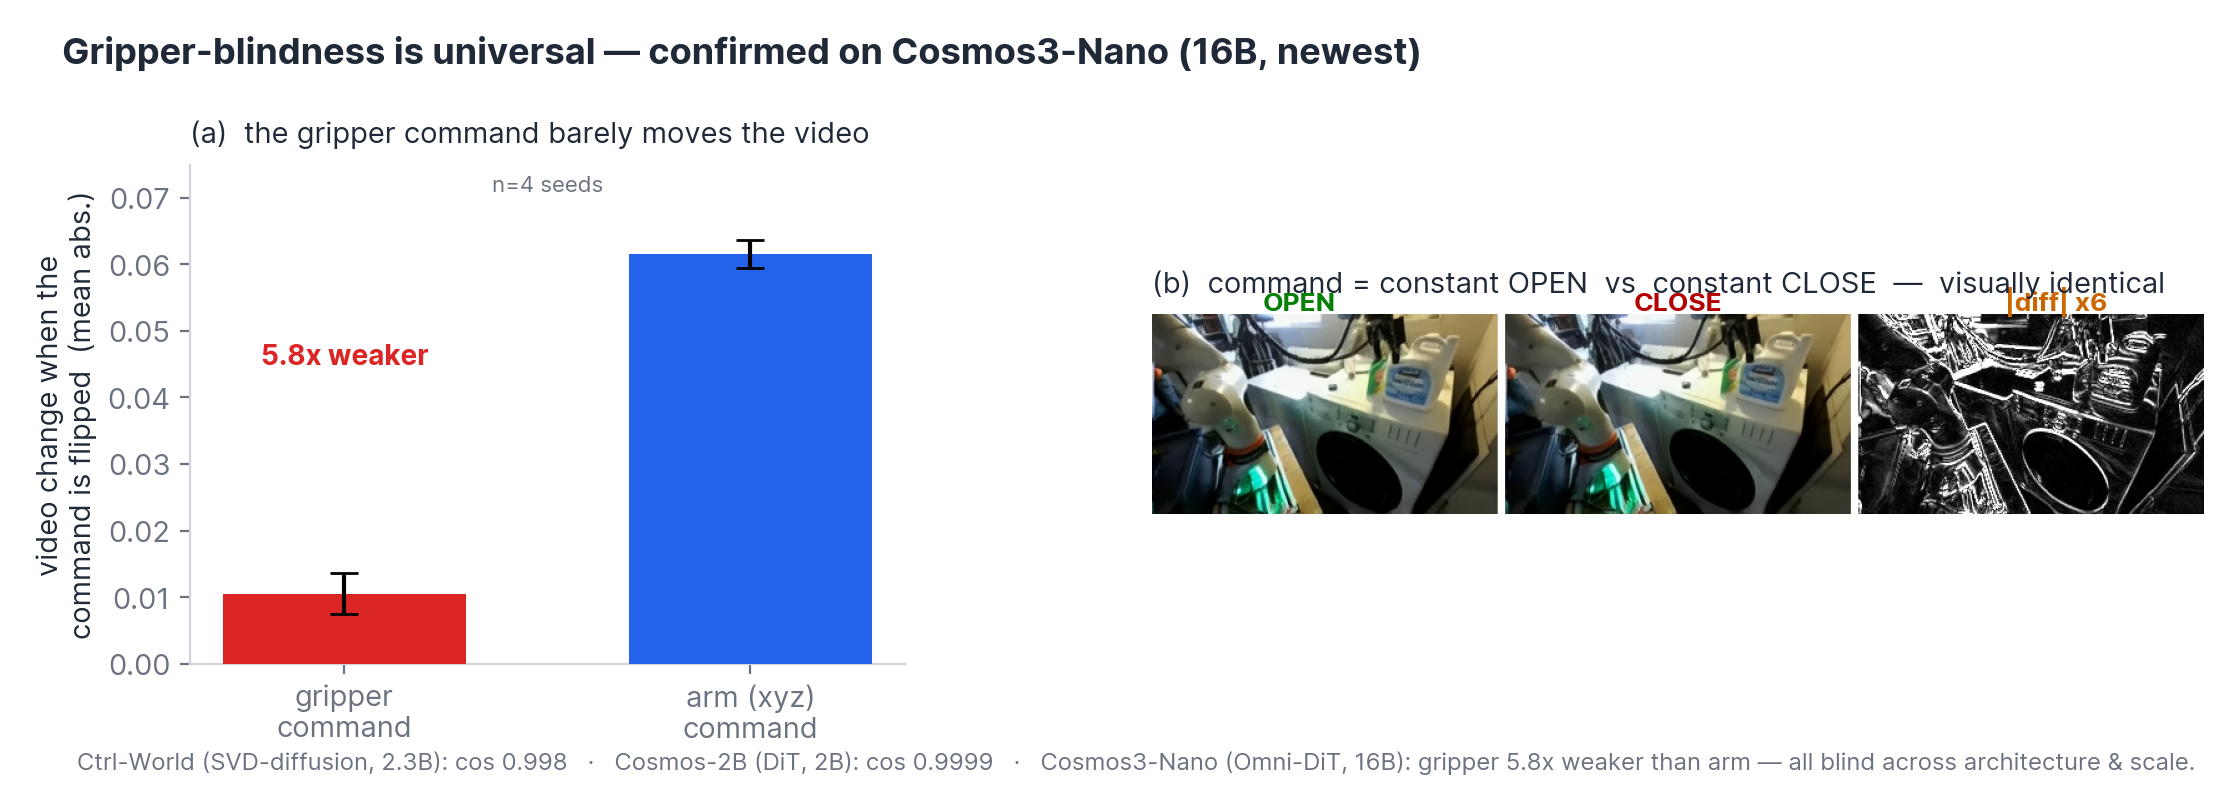
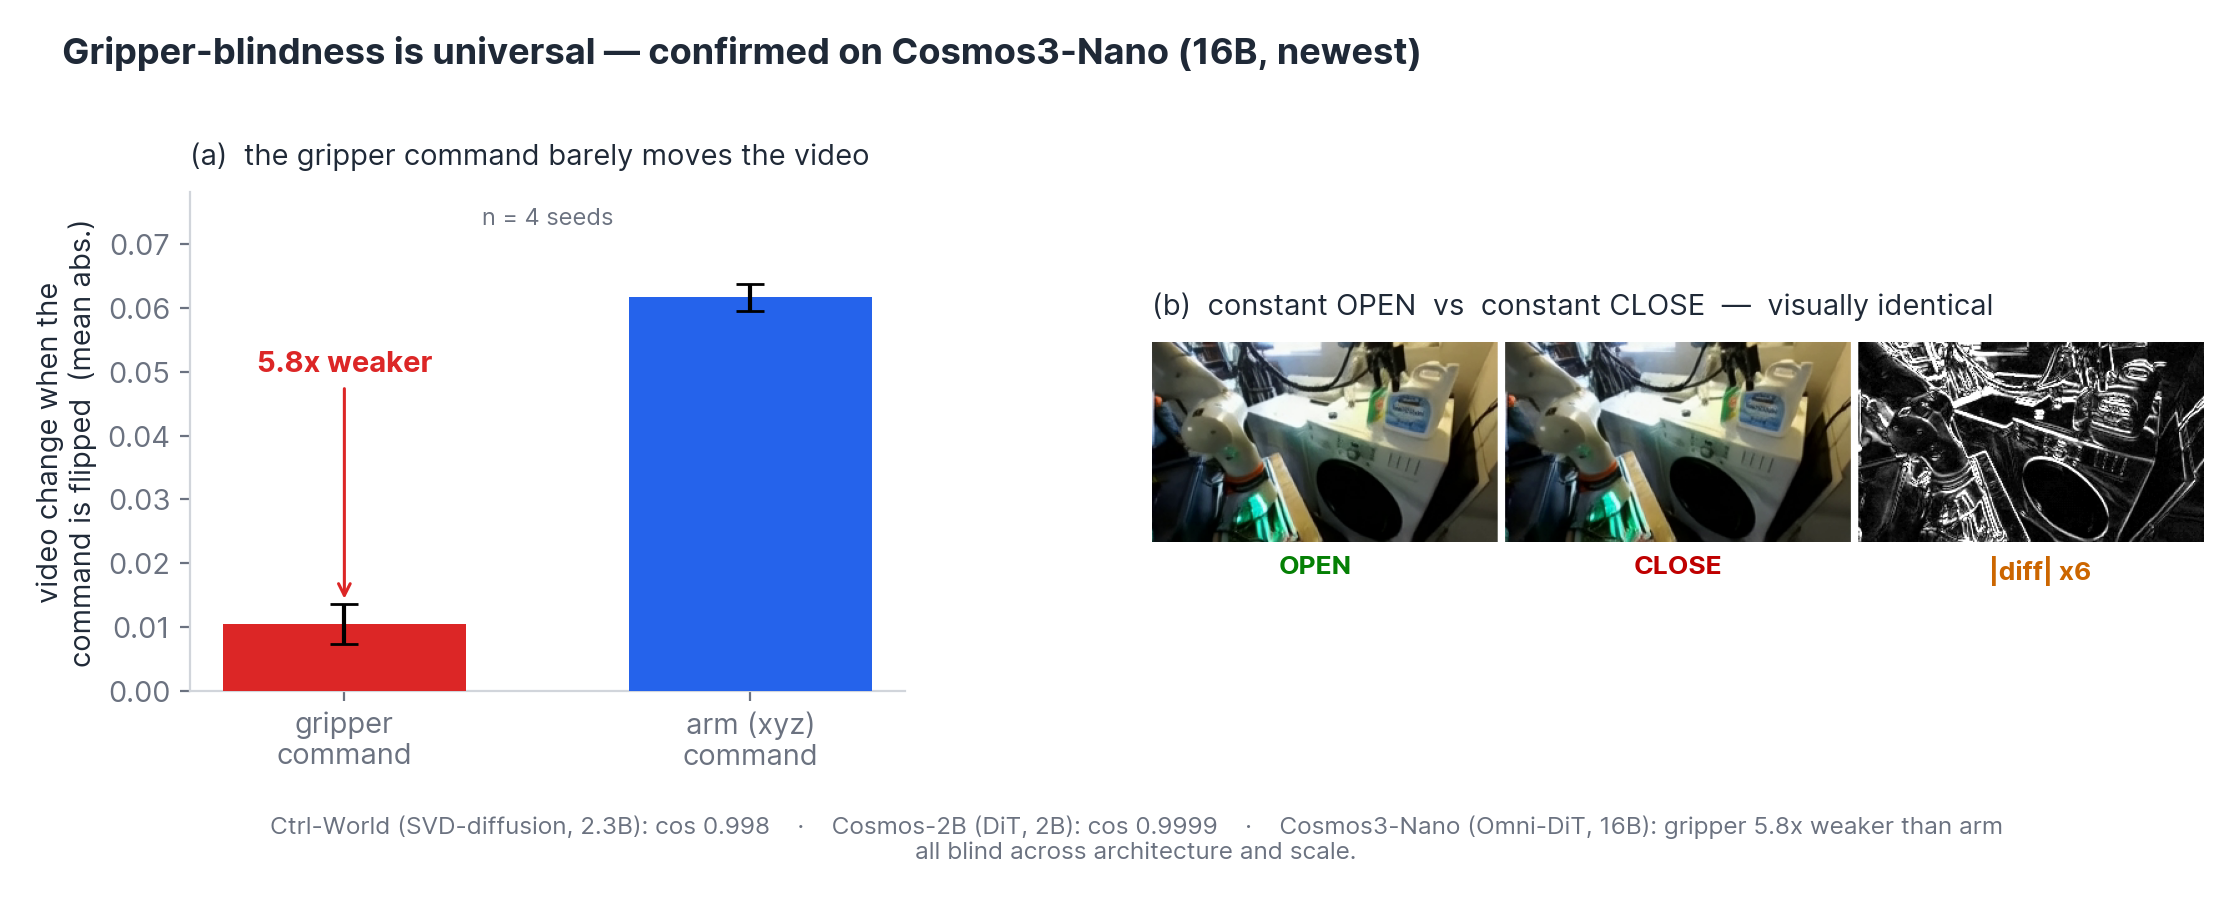
Cross-WM audit: per-model showcase (names + status badges + examples), Cosmos3 OPEN/CLOSE video, fix figure label overlap

diff --git a/index.html b/index.html
@@ -213,20 +213,47 @@
           a 16&nbsp;B model released in 2026. Every one ignores the gripper command — confirming the blindness is a
           property of the training objective, not of any single model or scale.
         </p>
-        <div class="bg-white rounded-xl border border-stone-200 overflow-x-auto mb-3 measure mx-auto">
-          <table class="w-full text-sm">
-            <thead><tr class="text-left text-stone-500 border-b border-stone-200">
-              <th class="py-3 px-5 font-medium">World model</th>
-              <th class="py-3 px-5 font-medium">Architecture</th>
-              <th class="py-3 px-5 font-medium">Params</th>
-              <th class="py-3 px-5 font-medium">Gripper-blindness</th>
-            </tr></thead>
-            <tbody class="text-stone-800">
-              <tr class="border-b border-stone-100"><td class="py-3 px-5">Ctrl-World</td><td class="py-3 px-5">SVD-diffusion</td><td class="py-3 px-5 mono">2.3 B</td><td class="py-3 px-5 mono">cos 0.998</td></tr>
-              <tr class="border-b border-stone-100"><td class="py-3 px-5">Cosmos-2B</td><td class="py-3 px-5">DiT + AdaLN</td><td class="py-3 px-5 mono">2 B</td><td class="py-3 px-5 mono">cos 0.9999</td></tr>
-              <tr><td class="py-3 px-5">Cosmos3-Nano</td><td class="py-3 px-5">Omni-MoT DiT</td><td class="py-3 px-5 mono">16 B</td><td class="py-3 px-5 mono">gripper 5.8× weaker than arm</td></tr>
-            </tbody>
-          </table>
+        <div class="space-y-6 measure mx-auto mb-4">
+
+          <!-- Ctrl-World -->
+          <div class="rounded-xl border border-stone-200 bg-white overflow-hidden">
+            <div class="px-5 py-3.5 flex flex-wrap items-center gap-x-4 gap-y-1 border-b border-stone-100">
+              <span class="font-bold text-stone-900 text-lg">Ctrl-World</span>
+              <span class="text-xs text-stone-500">SVD-diffusion · 2.3 B</span>
+              <span class="ml-auto text-[9px] font-bold uppercase tracking-wider px-2 py-1 rounded-full bg-red-50 text-red-600 border border-red-200">gripper-blind</span>
+              <span class="mono text-sm font-semibold text-stone-700">cos 0.998</span>
+            </div>
+            <div class="bg-black"><img src="demo/labeled_side_by_side.gif" class="w-full" loading="lazy" alt="Ctrl-World: a correct rollout and a gripper-flip rollout render identically"/></div>
+            <div class="px-5 py-3 text-xs text-stone-500">A correct rollout and one that secretly flips the gripper render <strong class="text-stone-700">identically</strong>.</div>
+          </div>
+
+          <!-- Cosmos-2B -->
+          <div class="rounded-xl border border-stone-200 bg-white overflow-hidden">
+            <div class="px-5 py-3.5 flex flex-wrap items-center gap-x-4 gap-y-1 border-b border-stone-100">
+              <span class="font-bold text-stone-900 text-lg">Cosmos-2B</span>
+              <span class="text-xs text-stone-500">DiT + AdaLN · 2 B</span>
+              <span class="ml-auto text-[9px] font-bold uppercase tracking-wider px-2 py-1 rounded-full bg-red-50 text-red-600 border border-red-200">gripper-blind</span>
+              <span class="mono text-sm font-semibold text-stone-700">cos 0.9999</span>
+            </div>
+            <div class="py-9 bg-stone-900 text-center">
+              <div class="mono text-4xl font-extrabold text-white">0.9999</div>
+              <div class="text-[11px] text-stone-400 mt-2">cosine(demo, gripper-flip) — feature-space probe, no decoder</div>
+            </div>
+            <div class="px-5 py-3 text-xs text-stone-500">Mid-block features barely move under a full gripper flip — <strong class="text-stone-700">even more invariant</strong> than Ctrl-World.</div>
+          </div>
+
+          <!-- Cosmos3-Nano -->
+          <div class="rounded-xl border-2 border-emerald-200 bg-white overflow-hidden">
+            <div class="px-5 py-3.5 flex flex-wrap items-center gap-x-4 gap-y-1 border-b border-stone-100">
+              <span class="font-bold text-stone-900 text-lg">Cosmos3-Nano</span>
+              <span class="text-xs text-stone-500">Omni-MoT DiT · 16 B · 2026</span>
+              <span class="ml-auto text-[9px] font-bold uppercase tracking-wider px-2 py-1 rounded-full bg-red-50 text-red-600 border border-red-200">gripper-blind</span>
+              <span class="mono text-sm font-semibold text-stone-700">5.8× weaker</span>
+            </div>
+            <div class="bg-black"><video autoplay loop muted playsinline class="w-full"><source src="demo/clean/cosmos3_oc.mp4" type="video/mp4" /></video></div>
+            <div class="px-5 py-3 text-xs text-stone-500">Commanding the gripper <span class="text-emerald-700 font-medium">constant&nbsp;OPEN</span> vs <span class="text-red-700 font-medium">constant&nbsp;CLOSE</span> produces the same video; the gripper command moves the prediction <strong class="text-stone-700">5.8× less</strong> than the arm (4 seeds).</div>
+          </div>
+
         </div>
         <p class="text-xs text-stone-400 measure mx-auto mb-8 text-center">Ctrl-World / Cosmos-2B: feature-space cosine under a gripper flip. Cosmos3-Nano: pixel-space, gripper vs. arm command (4 seeds). Different probes — same conclusion.</p>
         <figure class="measure mx-auto">